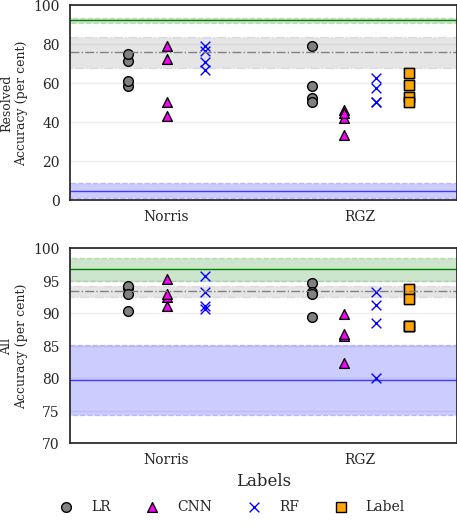
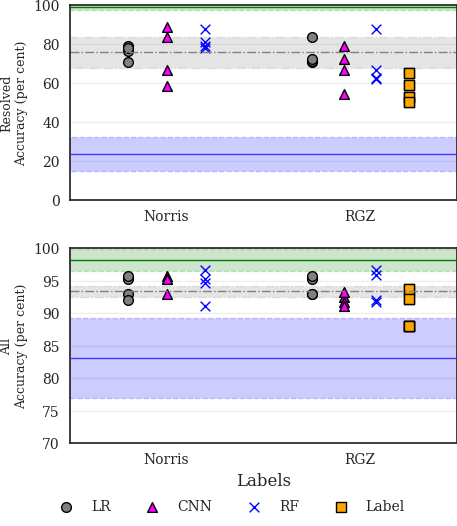
Added gaussian multiplier

diff --git a/ATLAS-CDFS/scripts/pipeline.py b/ATLAS-CDFS/scripts/pipeline.py
@@ -64,6 +64,7 @@ import matplotlib.pyplot as plt
 import numpy
 from scipy.spatial import KDTree
 import scipy.special
+import scipy.stats
 import seaborn
 from sklearn.base import ClassifierMixin as Classifier
 from sklearn.ensemble import RandomForestClassifier
@@ -80,6 +81,9 @@ SWIRE_ELAIS_PATH = '/Users/alger/data/SWIRE/SWIRE3_ELAIS_cat_IRAC24_21Dec05.tbl'
 TABLE_PATH = '/Users/alger/data/Crowdastro/one-table-to-rule-them-all.tbl'
 WORKING_DIR = '/Users/alger/data/Crowdastro/atlas-ml/'
 IMAGE_SIZE = 1024
+
+# Spread of half-Gaussian prediction falloff (in degrees).
+FALLOFF_SIGMA = 1 / 120
 
 # Sensitivities of Spitzer (in µJy).
 SPITZER_SENSITIVITIES = {
@@ -1392,7 +1396,11 @@ def cross_identify_all(
         all_cids = []
         for q in range(4):
             if field == 'cdfs':
-                probabilities = norris_labels[swire_sets[:, SET_NAMES['RGZ'], q]]
+                probabilities = norris_labels[swire_sets[:, SET_NAMES['RGZ'], q]].astype(float)
+                # Noise the probabilities *ever* so slightly to fix non-determinism.
+                probabilities += numpy.random.normal(
+                    size=probabilities.shape,
+                    scale=0.1) ** 2
                 labeller = 'norris'
             else:
                 probabilities = swire_labels[swire_sets[:, 0, 0], 0].astype(float)
@@ -1546,6 +1554,13 @@ def cross_identify(
                 log.warning('No nearby SWIRE found for {}'.format(radio_name))
                 no_matches.add(radio_name)
                 continue
+            # Multiply predictions by a Gaussian of location distances.
+            scoords = astropy.coordinates.SkyCoord(ra=coords[0], dec=coords[1], unit='deg')
+            nearby_scoords = astropy.coordinates.SkyCoord(ra=swire_coords[swire_set][nearby, 0], dec=swire_coords[swire_set][nearby, 1], unit='deg')
+            separations = numpy.array(scoords.separation(nearby_scoords).deg)
+            gaussians = scipy.stats.norm.pdf(separations, scale=FALLOFF_SIGMA)
+            assert gaussians.shape == nearby_predictions.shape
+            nearby_predictions *= gaussians
             argmax = numpy.argmax(nearby_predictions)  # index of nearby_predictions
             ir_name = swire_names[swire_set[nearby[argmax]]]
         radio_names_.append(radio_name)

diff --git a/ATLAS-CDFS/scripts/plot_grid_cross_identifications.py b/ATLAS-CDFS/scripts/plot_grid_cross_identifications.py
@@ -232,6 +232,8 @@ def plot(field='cdfs'):
                     swire_norris = atlas_to_swire_expert[name]
                     swire_predictor = atlas_to_swire_predictor[name]
                     n_correct += swire_norris == swire_predictor
+                    if cid.classifier == 'NearestNeighbour' and swire_norris != swire_predictor:
+                        print('big ol\' failure:', name)
                     n_total += 1
             else:
                 atlas_indices = atlas_test_sets[:, 0, 0].nonzero()[0]
